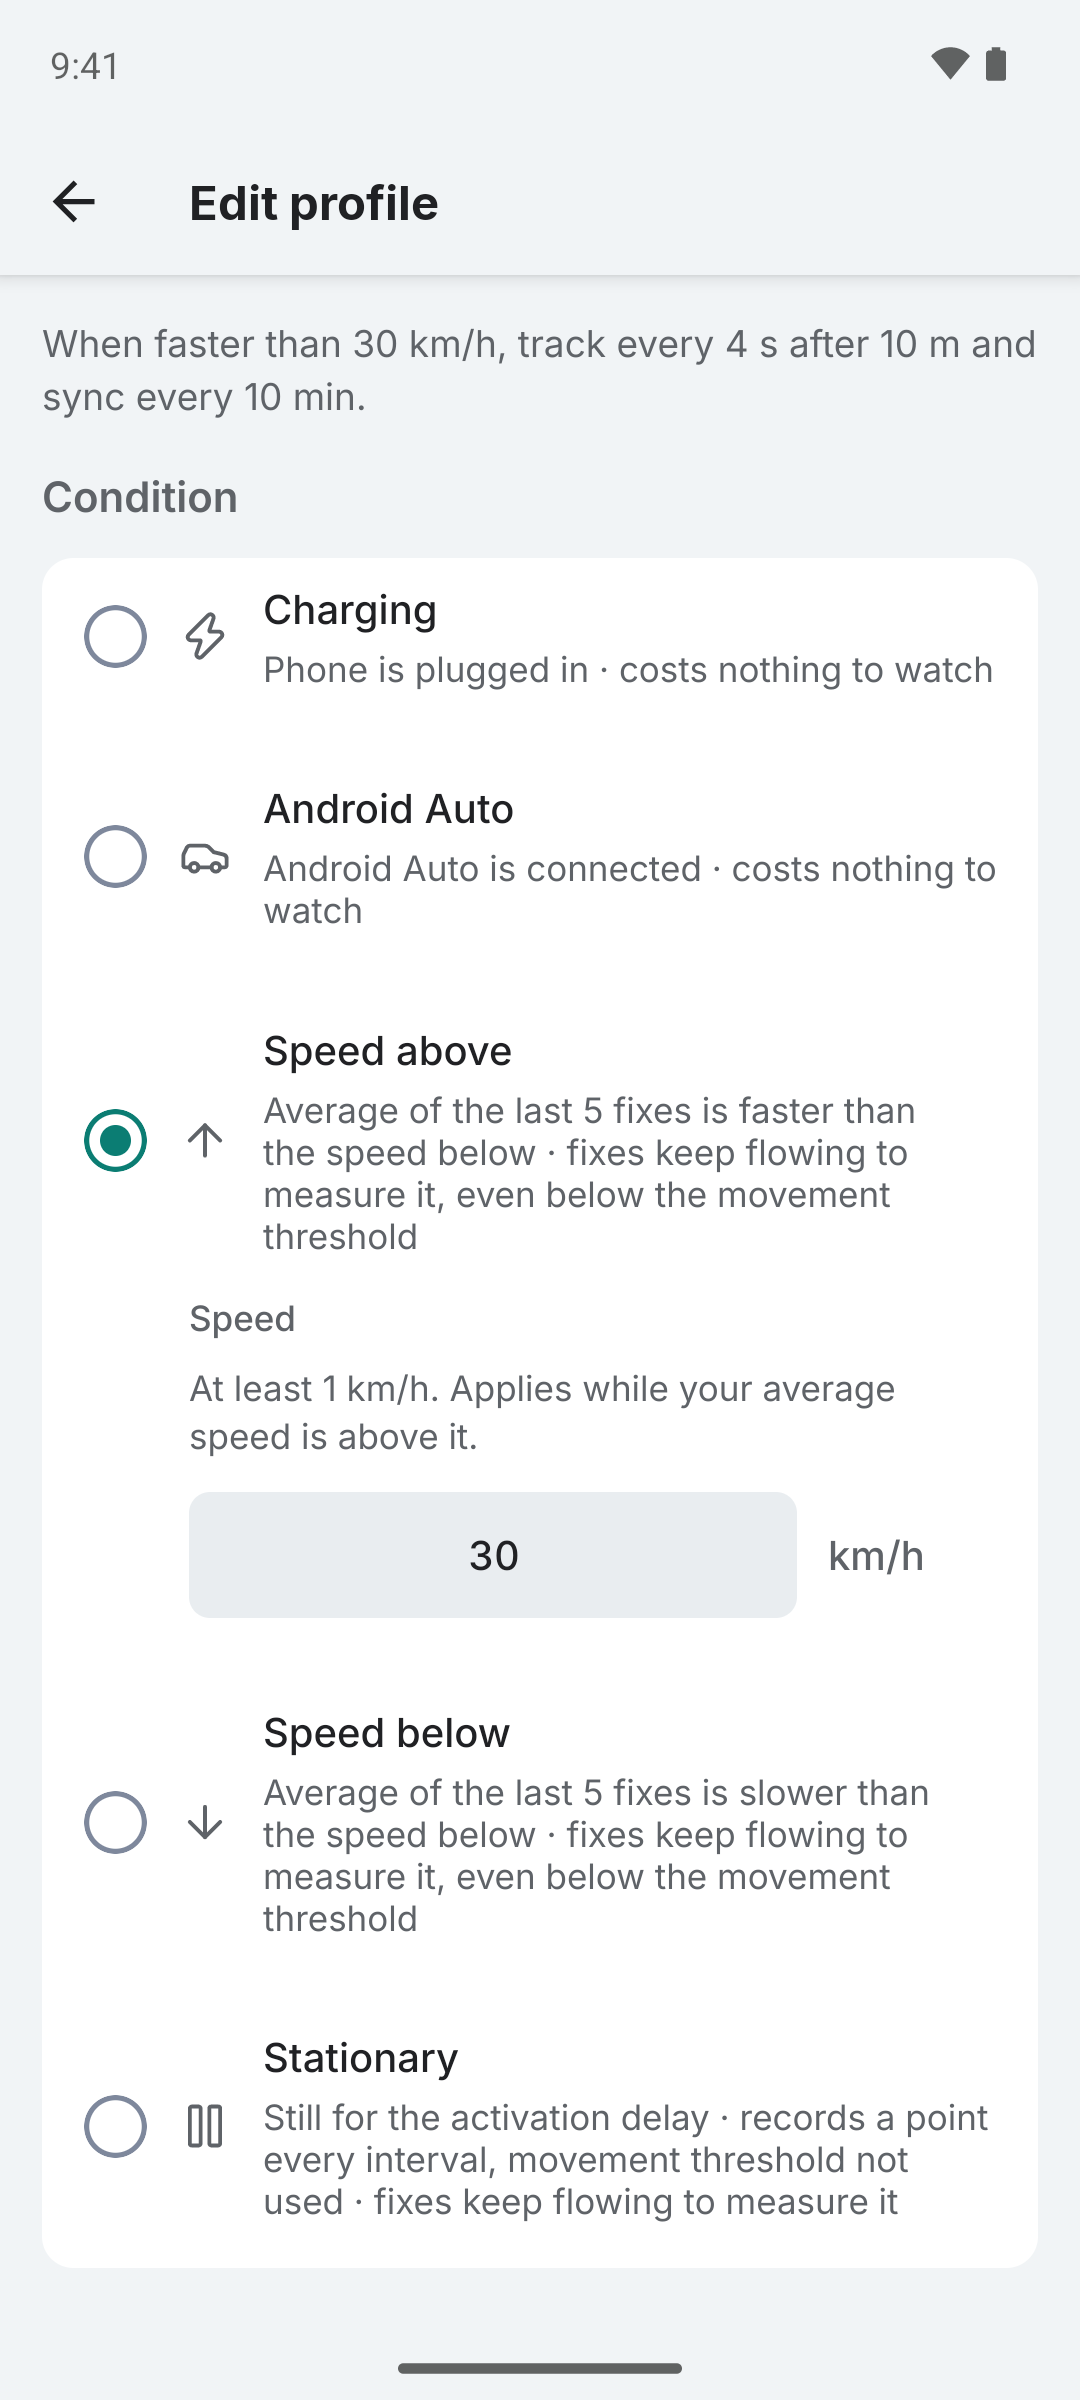
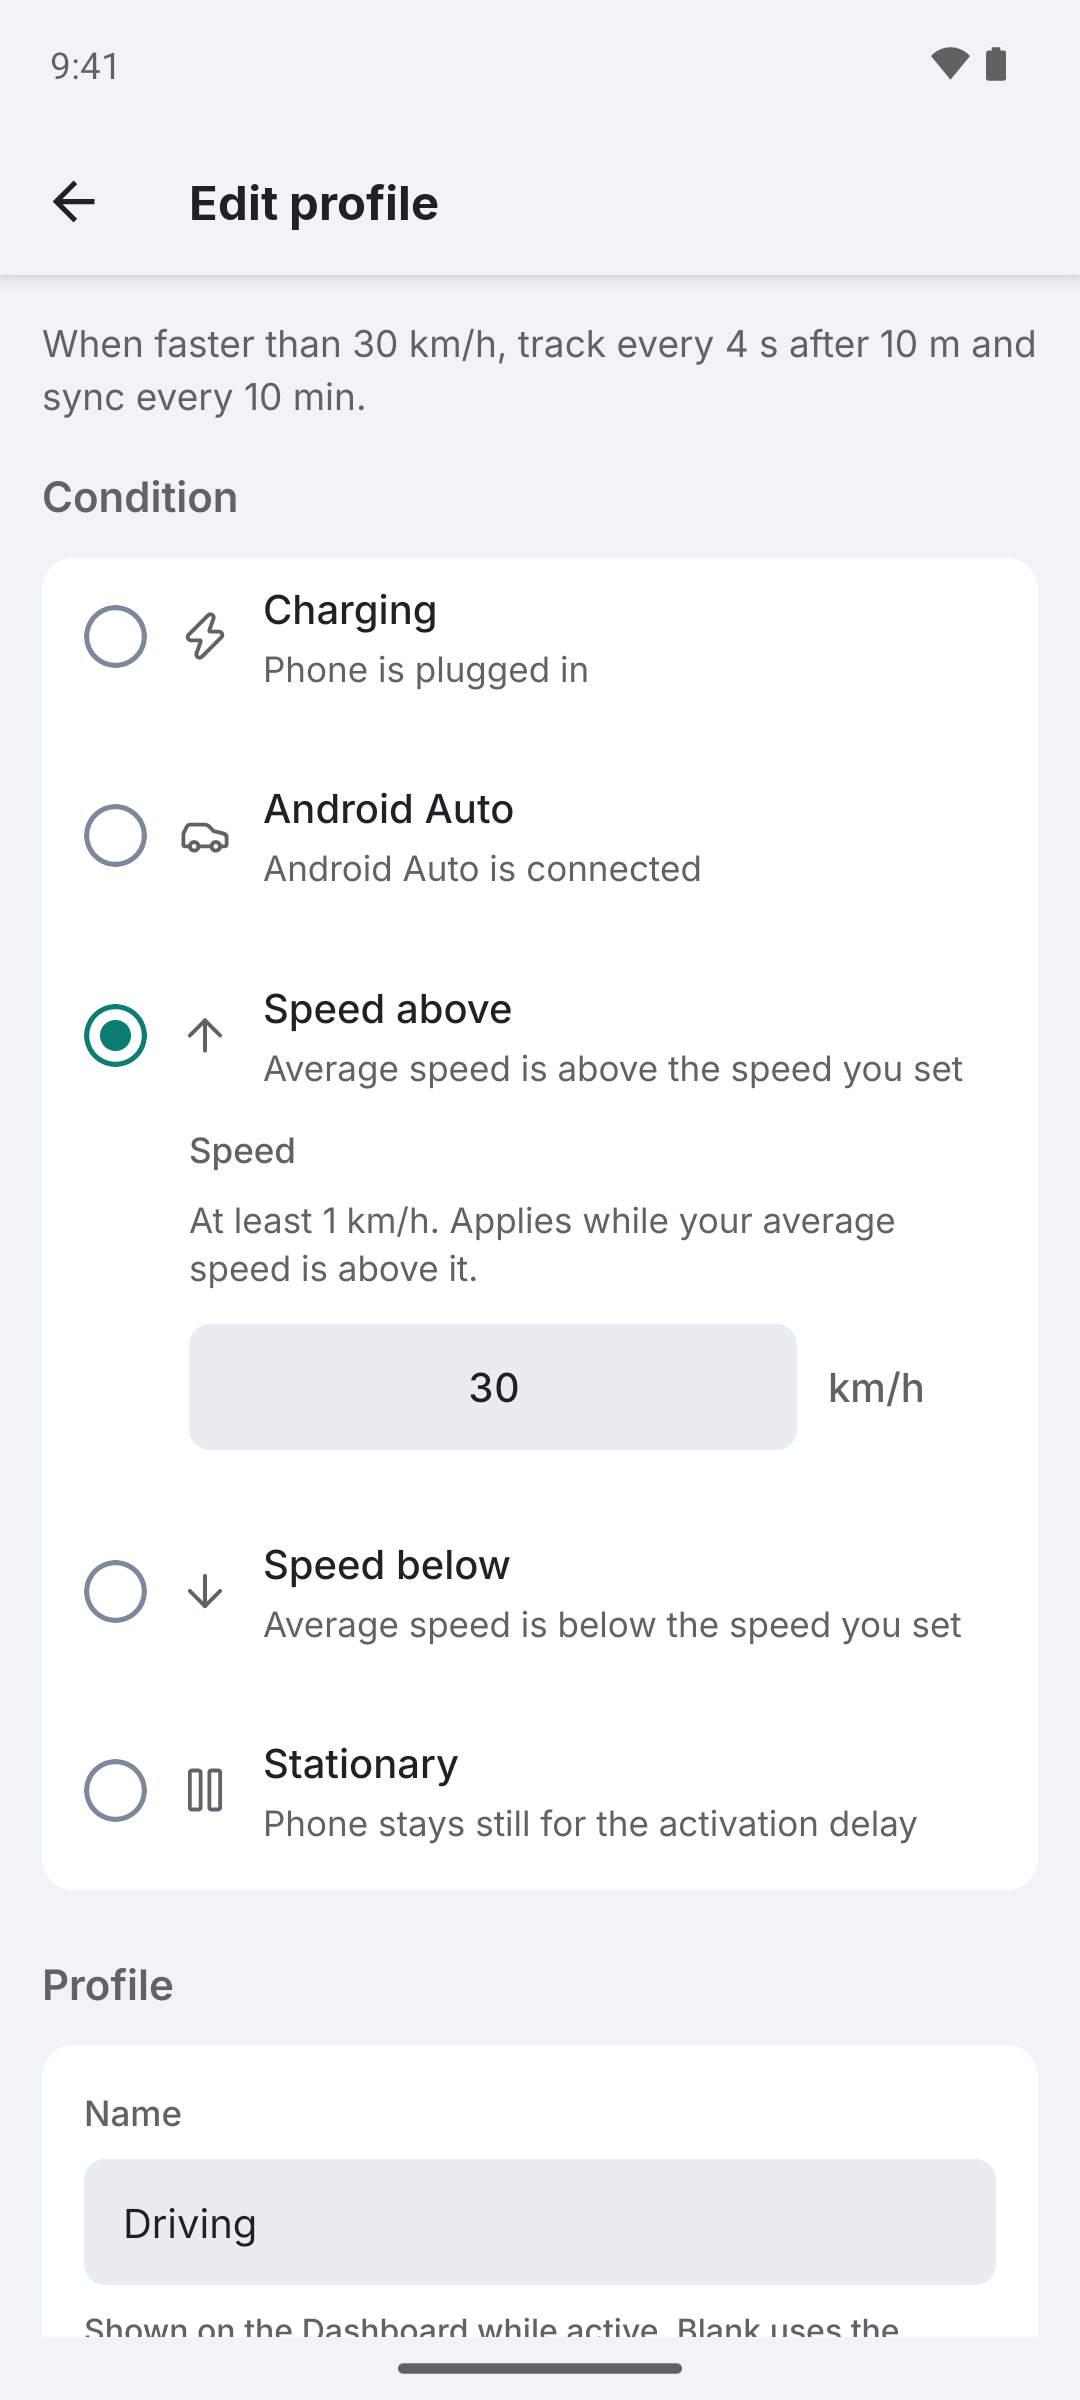
refactor(profiles): cut each condition caption to what the condition means (#882)

diff --git a/apps/mobile/src/constants/index.ts b/apps/mobile/src/constants/index.ts
@@ -97,38 +97,35 @@ export const PROFILE_CONDITIONS: {
     label: "Charging",
     listLabel: "When charging",
     icon: Zap,
-    description: "Phone is plugged in · costs nothing to watch"
+    description: "Phone is plugged in"
   },
   {
     type: "android_auto",
     label: "Android Auto",
     listLabel: "On Android Auto",
     icon: Car,
-    description: "Android Auto is connected · costs nothing to watch"
+    description: "Android Auto is connected"
   },
   {
     type: "speed_above",
     label: "Speed above",
     listLabel: "Speed above",
     icon: ArrowUp,
-    description:
-      "Average of the last 5 fixes is faster than the speed below · fixes keep flowing to measure it, even below the movement threshold"
+    description: "Average speed is above the speed you set"
   },
   {
     type: "speed_below",
     label: "Speed below",
     listLabel: "Speed below",
     icon: ArrowDown,
-    description:
-      "Average of the last 5 fixes is slower than the speed below · fixes keep flowing to measure it, even below the movement threshold"
+    description: "Average speed is below the speed you set"
   },
   {
     type: "stationary",
     label: "Stationary",
     listLabel: "When stationary",
     icon: Pause,
-    description:
-      "Still for the activation delay · records a point every interval, movement threshold not used · fixes keep flowing to measure it"
+    description: "Phone stays still for the activation delay"
   }
 ]
 

diff --git a/apps/mobile/src/screens/__tests__/ProfileEditorScreen.test.tsx b/apps/mobile/src/screens/__tests__/ProfileEditorScreen.test.tsx
@@ -179,13 +179,13 @@ describe("ProfileEditorScreen", () => {
   })
 
   describe("condition", () => {
-    it("comes first, in sentence case, with what watching it costs on each row", () => {
-      const { getByText, getAllByText, getByTestId } = renderNew()
+    it("comes first, in sentence case, with what each condition means on its row", () => {
+      const { getByText, getByTestId } = renderNew()
 
       expect(getByText("Android Auto")).toBeTruthy()
       expect(getByText("Speed above")).toBeTruthy()
-      expect(getByText("Phone is plugged in · costs nothing to watch")).toBeTruthy()
-      expect(getAllByText(/fixes keep flowing to measure it, even below the movement threshold/)).toHaveLength(2)
+      expect(getByText("Phone is plugged in")).toBeTruthy()
+      expect(getByText("Average speed is above the speed you set")).toBeTruthy()
       expect(getByTestId("condition-charging").props.accessibilityState.checked).toBe(true)
     })
 

diff --git a/apps/docs/docs/guides/tracking-profiles.md b/apps/docs/docs/guides/tracking-profiles.md
@@ -36,13 +36,15 @@ The list opens with a line that says which profile is in force and its values, "
 
 ## Condition Types
 
-| Condition | Trigger | Cost |
-| --- | --- | --- |
-| **Charging** | Phone is plugged in to a power source | Nothing to watch |
-| **Android Auto** | Android Auto is connected | Nothing to watch |
-| **Speed above** | Average speed exceeds the speed you set (km/h or mph) | Fixes keep flowing to measure it, even below the movement threshold |
-| **Speed below** | Average speed drops below the speed you set (km/h or mph) | Fixes keep flowing to measure it, even below the movement threshold |
-| **Stationary** | Still for the activation delay (60 s by default) | Fixes keep flowing to measure it; movement threshold not used |
+| Condition        | Trigger                                                   |
+| ---------------- | --------------------------------------------------------- |
+| **Charging**     | Phone is plugged in to a power source                     |
+| **Android Auto** | Android Auto is connected                                 |
+| **Speed above**  | Average speed exceeds the speed you set (km/h or mph)     |
+| **Speed below**  | Average speed drops below the speed you set (km/h or mph) |
+| **Stationary**   | Still for the activation delay (60 s by default)          |
+
+A stationary profile records less often, but GPS stays on. To stop GPS while you stay somewhere, use a [geofence](geofencing) with WiFi pause or motionless pause.
 
 Speed conditions use a rolling average of the last 5 GPS readings to avoid triggering on momentary speed spikes. The stationary condition uses a fixed speed threshold (0.3 m/s) that has to hold across 60 seconds of fixes, so unlike speed-below it does not flap on GPS noise near zero. The window is measured over the fixes themselves, so a stretch with no fixes at all is not counted as stillness and the profile waits for the stream instead of switching on.
 

diff --git a/apps/docs/docs/guides/geofencing.md b/apps/docs/docs/guides/geofencing.md
@@ -85,7 +85,7 @@ See the [Deep Link Setup](deep-link-setup.md#geofences) guide for the full paylo
 - The notification shows "Paused" with "Inside zone", "Zone WiFi" or "No movement" and when tracking resumes. The zone name only appears on the Dashboard
 - By default, GPS continues running inside the zone to detect when you leave. If **WiFi pause** or **motionless pause** is enabled, GPS stops entirely inside the zone and zone exit is detected when GPS resumes
 - If you leave before the entry delay completes, the delay is cancelled and tracking continues uninterrupted
-- Stationary detection is suspended inside zones so GPS is never stopped by the stationary timer while zone exit needs to be detected
+- A stationary profile stays active inside a zone, but records nothing while WiFi pause or motionless pause has GPS off
 - When exiting the zone, tracking automatically resumes
 - If GPS goes quiet while paused (for example, indoors for a long stretch), Colota periodically requests a fresh position to check whether you have left
 - Zone checks happen every location update with minimal overhead
